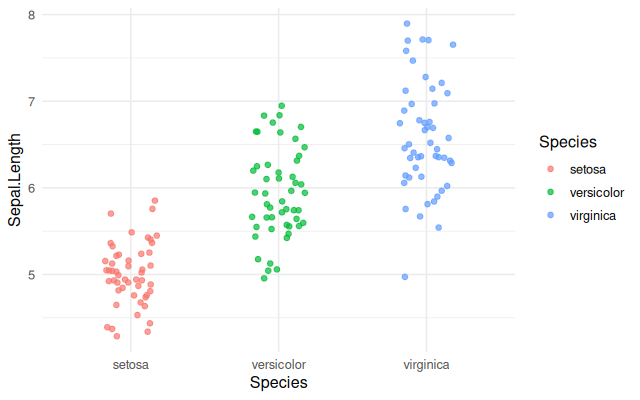
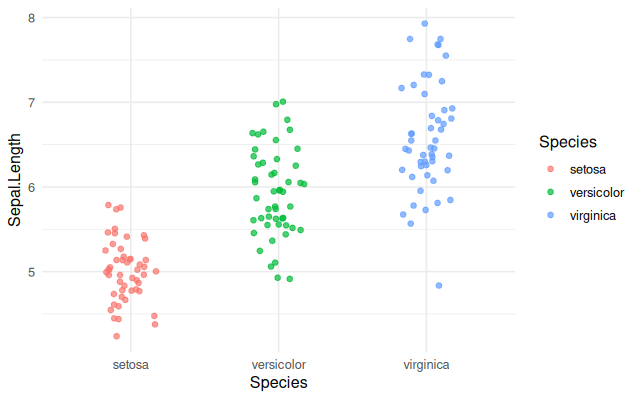
feat(charts): add radar and parallel coordinates

diff --git a/docs/upgrades/20-chart-examples.md b/docs/upgrades/20-chart-examples.md
@@ -37,7 +37,7 @@ senza eseguire comandi.
 ### 3.1 Galleria Examples
 
 - Quarta modalità del Chart Studio: **Build | Models | Examples | Gallery**.
-- 26 esempi, con anteprima locale 640×400.
+- 28 esempi, con anteprima locale 640×400.
 - Filtri per famiglia e livello, ricerca testuale, conteggio.
 - Card come `<button>`, `aria-pressed`, nome accessibile, immagine con `alt`.
 - Dettaglio con descrizione, fonte, **Apri nel builder**, **Copia codice** e
@@ -56,6 +56,8 @@ senza eseguire comandi.
 | Stacked area | x, valore, serie | `geom_area(position = "stack")` |
 | Ridgeline | numerico, gruppo | richiede `ggridges` |
 | Beeswarm | gruppo, numerico | richiede `ggbeeswarm` |
+| Radar | categoria, valore, profilo | poligono chiuso con `coord_polar()` |
+| Parallel coordinates | più numeriche, gruppo | richiede `GGally` |
 
 I tipi con package opzionale compaiono solo se il package è installato e sono
 dichiarati in `Suggests`. Nessun package nuovo obbligatorio.
@@ -69,14 +71,14 @@ dichiarati in `Suggests`. Nessun package nuovo obbligatorio.
 - `inst/www/chart-examples/NOTICE` attribuisce l'ispirazione all'R Graph
   Gallery (repository MIT) e dichiara che nessuna immagine del sito viene
   ridistribuita.
-- Budget: 26 PNG, circa 720 KB.
+- Budget: 28 PNG, circa 850 KB.
 
 ---
 
 ## 4. Esperienza utente
 
 ```text
-[ Famiglia ▾ ] [ Livello ▾ ] [ Cerca esempi... ]        [ 26 esempio/i ]
+[ Famiglia ▾ ] [ Livello ▾ ] [ Cerca esempi... ]        [ 28 esempio/i ]
 ┌──────────────────────────────┬─────────────────────────────────────────┐
 │ card  card  card             │ anteprima grande                        │
 │ card  card  card             │ titolo, famiglia, livello               │
@@ -104,7 +106,7 @@ R/chart-examples.R          registro, dati, spec, codice, filtri
 R/chart-examples-ui.R       UI e server della modalità Examples
 R/chart-types-extra.R       lollipop, dumbbell, doughnut, area, ridgeline, beeswarm
 tools/build_chart_examples.R generazione e verifica delle anteprime
-inst/www/chart-examples/    26 PNG + manifest.tsv + NOTICE
+inst/www/chart-examples/    28 PNG + manifest.tsv + NOTICE
 tests/testthat/test-chart-examples.R
 tests/testthat/test-chart-types-extra.R
 ```
@@ -135,6 +137,7 @@ tests/testthat/test-chart-types-extra.R
 | Composizione | pie con test, doughnut |
 | Evoluzione | linea, area, serie multiple, area impilata |
 | Ranking | lollipop, dumbbell |
+| Profili | radar, parallel coordinates |
 
 Le sorgenti sono pagine tematiche di `https://r-graph-gallery.com/`; le
 descrizioni sono originali.
@@ -147,7 +150,7 @@ descrizioni sono originali.
 
 - `test-chart-examples.R`: registro, spec, codice, filtri, mapping, markup,
   apertura nel builder senza side effect.
-- `test-chart-types-extra.R`: layer e validazione dei sei tipi; gating dei
+- `test-chart-types-extra.R`: layer e validazione degli otto tipi; gating dei
   package opzionali.
 - `test-chart-ggplot.R`: mapping di default dei nuovi tipi.
 - `test-chart-spec.R` / `test-chart-types.R`: copertura automatica dei tipi
@@ -160,7 +163,7 @@ descrizioni sono originali.
 | Suite completa | `EXIT=0`; 29 e2e saltati; 3 warning noti |
 | `node --check` | verde |
 | App HTTP | 200 su `http://127.0.0.1:3841/` |
-| Anteprime | 26/26, manifest coerente, 720 KB |
+| Anteprime | 28/28, manifest coerente, 850 KB |
 | Classic | invariata |
 
 ---
@@ -171,13 +174,13 @@ descrizioni sono originali.
 |---|---|
 | Duplicare Models | loader condiviso, un solo percorso |
 | Aspettativa delle 400 pagine | catalogo curato, link esterni, NOTICE |
-| Peso immagini | 26 PNG, lazy loading, budget |
+| Peso immagini | 28 PNG, lazy loading, budget |
 | Licenza | anteprime generate localmente, nessuna immagine del sito |
 | Mapping sbagliato | solo nomi/tipi compatibili |
 | Package opzionale mancante | `requires` + gating, esempio e tipo nascosti |
 
-Restano fuori dall'onda, come concordato: radar, parallel coordinates,
-treemap, waffle, dendrogramma, mappe, network/flow, 3D e animazione. Sono
+Restano fuori dall'onda, come concordato: treemap, waffle, dendrogramma,
+mappe, network/flow, 3D e animazione. Sono
 tipi da plugin o da onda successiva; l'architettura della galleria li accoglie
 senza cambiamenti.
 
@@ -186,9 +189,9 @@ senza cambiamenti.
 ## 9. Criteri di chiusura
 
 - [x] Modalità Examples con griglia, filtri, dettaglio e stato vuoto.
-- [x] 26 esempi con anteprima locale, fonte e codice.
+- [x] 28 esempi con anteprima locale, fonte e codice.
 - [x] Apri nel builder senza side effect.
-- [x] Sei nuovi tipi, con gating per i package opzionali.
+- [x] Otto nuovi tipi, con gating per i package opzionali.
 - [x] Nessuna richiesta di rete nella vista Examples.
 - [x] 3 colonne a 1280 px, 1 a 640 px, token e focus.
 - [x] Suite completa, app HTTP 200, help aggiornato.

diff --git a/docs/upgrades/diary/wave-20-chart-examples.md b/docs/upgrades/diary/wave-20-chart-examples.md
@@ -20,11 +20,11 @@ o per un plugin.
 
 ## 1. Risultato
 
-- Il Chart Studio ha una quarta modalità **Examples** con 26 ricette curate,
+- Il Chart Studio ha una quarta modalità **Examples** con 28 ricette curate,
   anteprime locali e link alla R Graph Gallery.
 - Il dettaglio mostra descrizione, fonte, codice e **Apri nel builder**.
 - Il loader è condiviso con **Models**: una sola strada per una ricetta.
-- Sei tipi nuovi: lollipop, dumbbell, doughnut, area impilata, ridgeline e
+- Otto tipi nuovi: lollipop, dumbbell, doughnut, area impilata, ridgeline e
   beeswarm.
 - `ggridges` e `ggbeeswarm` sono in `Suggests`; i tipi compaiono solo se
   installati. Nessuna dipendenza obbligatoria nuova.
@@ -55,7 +55,7 @@ o per un plugin.
 |---|---|---|
 | Catalogo | 20 esempi | 26: 20 sui tipi esistenti + 6 sui tipi nuovi |
 | Tipi | P1 e P2 | P1 senza dipendenze + ridgeline/beeswarm (package installati) |
-| Radar | previsto P1 | rinviato: il poligono chiuso richiede una trasformazione dati dedicata |
+| Radar | previsto P1 | aggiunto con un generatore di codice che chiude il poligono |
 | Altri P2 | treemap, waffle, parallel, dendrogram | rinviati: package non installati o modello dati dedicato |
 | Manifest | checksum | la verifica controlla id e presenza dei file: il PNG non è deterministico per metadati |
 
@@ -68,7 +68,7 @@ o per un plugin.
 | `testthat::test_local()` | `EXIT=0`; 0 failure; 29 e2e saltati; 3 warning noti (`/tmp/opencode/tests-w20-pre.log`) |
 | `node --check` | verde (`/tmp/opencode/app-w20.js`) |
 | App HTTP | 200 su `http://127.0.0.1:3841/` |
-| Anteprime | 26/26; manifest coerente; 720 KB |
+| Anteprime | 28/28; manifest coerente; 850 KB |
 | Mapping | solo colonne compatibili; nessun side effect |
 | Classic | invariata; nessun test Classic modificato |
 
@@ -81,8 +81,8 @@ o per un plugin.
   `QA-WIDGETS.md` e `ACCESSIBILITY.md`.
 - I tipi con package opzionale non hanno anteprima se il package manca; la
   galleria li esclude e il builder non li offre.
-- Radar, parallel, treemap, waffle, dendrogramma, mappe, network/flow, 3D e
-  animazione restano fuori: richiedono un modello dati o un plugin.
+- Treemap, waffle, dendrogramma, mappe, network/flow, 3D e animazione
+  restano fuori: richiedono un modello dati o un plugin.
 - Il manifest usa id + presenza file, non il checksum: la generazione PNG non
   è byte-identica tra esecuzioni.
 

diff --git a/README.md b/README.md
@@ -18,9 +18,10 @@ report workspaces, and a Classic mode for compatibility.
 > time with an optional second slot, hideable Inspector/Preview panels,
 > application undo and redo, row and cell-range selection with TSV copy,
 > resizable dialogs and modeless Help/Console/Output. The Chart Studio has a
-> single ggplot2 engine and an offline **Examples** gallery of 26 recipes
-> adapted from the R Graph Gallery; six additional types — lollipop, dumbbell,
-> doughnut, stacked area, ridgeline and beeswarm — extend the builder.
+> single ggplot2 engine and an offline **Examples** gallery of 28 recipes
+> adapted from the R Graph Gallery; eight additional types — lollipop,
+> dumbbell, doughnut, stacked area, ridgeline, beeswarm, radar and parallel
+> coordinates — extend the builder.
 > Orientation remains the through-line: every Studio view carries a context
 > line, the status bar has three priority groups, split slots name their role
 > and view, and the filter describes the visible frame rather than the total.
@@ -45,7 +46,8 @@ report workspaces, and a Classic mode for compatibility.
 - Optional: `rgl` for the 3D plot pane, `svglite` for SVG export, `rmarkdown`,
   `knitr` and Pandoc for report previews and knits, `commonmark` for the fast
   Markdown preview, `yaml` for front matter parsing, `styler` for script
-  formatting, `ggridges` for ridgelines and `ggbeeswarm` for beeswarms
+  formatting, `ggridges` for ridgelines, `ggbeeswarm` for beeswarms and
+  `GGally` for parallel coordinates
 
 ## Install
 
@@ -92,7 +94,7 @@ RcmdrShiny::run(env = env)
 | Targeted mode for data sets above the editing threshold | done |
 | Chart builder with per-type mappings and options | done |
 | Isolated live preview with debounce and cache | done |
-| Typed chart specification and thirty-one chart types | done |
+| Typed chart specification and thirty-three chart types | done |
 | Theme/palette panel and single ggplot2 engine | done |
 | Gallery with search, type filter, pin, rename, detail and compare | done |
 | Round-trip: reopen a chart in the builder | done |

diff --git a/NEWS.md b/NEWS.md
@@ -2,7 +2,7 @@
 
 ## Chart examples and new ggplot2 types
 
-- **Examples gallery.** The Chart Studio has a fourth mode, **Examples**: 26
+- **Examples gallery.** The Chart Studio has a fourth mode, **Examples**: 28
   curated recipes adapted from the R Graph Gallery, with local previews,
   family and level filters, search, source links and a detail panel. **Open in
   builder** fills type, options, theme and labels; it never loads data into the
@@ -12,8 +12,9 @@
   `datasets` with `tools/build_chart_examples.R`; no image or code is fetched
   at runtime. `inst/www/chart-examples/NOTICE` records the inspiration and the
   MIT licence of the R Graph Gallery repository.
-- **Six new types.** Lollipop, dumbbell, doughnut, stacked area, ridgeline
-  (`ggridges`) and beeswarm (`ggbeeswarm`) join the builder. The optional
+- **Eight new types.** Lollipop, dumbbell, doughnut, stacked area, ridgeline
+  (`ggridges`), beeswarm (`ggbeeswarm`), radar and parallel coordinates
+  (`GGally`) join the builder. The optional
   packages are in `Suggests`; the types appear only when installed. No new
   mandatory dependency.
 - **One recipe loader.** Models and Examples share the same loading path. A

diff --git a/docs/upgrades/CHECKLIST.md b/docs/upgrades/CHECKLIST.md
@@ -584,13 +584,13 @@ Stato: chiusa — 8 step in 3 lotti (E1–E8), versione 3.2.0; ADR-020.
 
 | ID | Task | Stato | Note |
 |---|---|---|---|
-| E1 | Registro esempi | [x] | `9935d48`; 26 metadati, filtri, spec, codice |
-| E2 | Anteprime locali | [x] | `tools/build_chart_examples.R`, 26 PNG, manifest, NOTICE |
+| E1 | Registro esempi | [x] | `9935d48`; 28 metadati, filtri, spec, codice |
+| E2 | Anteprime locali | [x] | `tools/build_chart_examples.R`, 28 PNG, manifest, NOTICE |
 | E3 | Modalità Examples | [x] | quarta modalità, griglia, card, stato vuoto |
 | E4 | Dettaglio e filtri | [x] | famiglia, livello, ricerca, fonte, copia codice |
 | E5 | Apri nel builder | [x] | loader condiviso, mapping condizionale, no side effect |
-| E6 | Tipi nuovi | [x] | lollipop, dumbbell, doughnut, area, ridgeline, beeswarm |
-| E7 | Contenuto curated | [x] | 26 esempi, 6 famiglie, fonti, livelli |
+| E6 | Tipi nuovi | [x] | lollipop, dumbbell, doughnut, area, ridgeline, beeswarm, radar, parallel |
+| E7 | Contenuto curated | [x] | 28 esempi, 6 famiglie, fonti, livelli |
 | E8 | Chiusura | [x] | 3.2.0; NEWS, README, help, ADR-020, diario, push |
 
 ---

diff --git a/inst/help-topics/topics/chart-studio.md b/inst/help-topics/topics/chart-studio.md
@@ -90,6 +90,8 @@ The builder also exposes types without a classic Rcmdr dialog:
 | Stacked area | x, value, series | alpha, stacked position |
 | Ridgeline | numeric, group | overlap scale, alpha (needs `ggridges`) |
 | Beeswarm | group, numeric | point size, alpha (needs `ggbeeswarm`) |
+| Radar | category, value, profile? | closed profile, point/line size, fill alpha |
+| Parallel coordinates | two or more numerics, group? | line alpha, scale (needs `GGally`) |
 
 The statistical types (`stat_*`) use ggstatsplot and the composition type uses
 patchwork. Optional types appear only when their package is installed; the

diff --git a/inst/help-topics/topics/it/chart-studio.md b/inst/help-topics/topics/it/chart-studio.md
@@ -63,7 +63,8 @@ ggplot2. Le stesse scelte sono incluse nel comando tramite `scale_*_manual()`,
 
 Oltre ai tipi classici, il builder offre violino, ECDF, densità 2D, heatmap,
 lollipop, dumbbell, doughnut, area impilata, ridgeline (se `ggridges` è
-installato) e beeswarm (se `ggbeeswarm` è installato). I tipi `stat_*` usano
+installato), beeswarm (se `ggbeeswarm` è installato), radar e parallel
+coordinates (se `GGally` è installato). I tipi `stat_*` usano
 ggstatsplot; la composizione usa patchwork. Il motore è unico: ggplot2.
 
 ## Vedi anche
